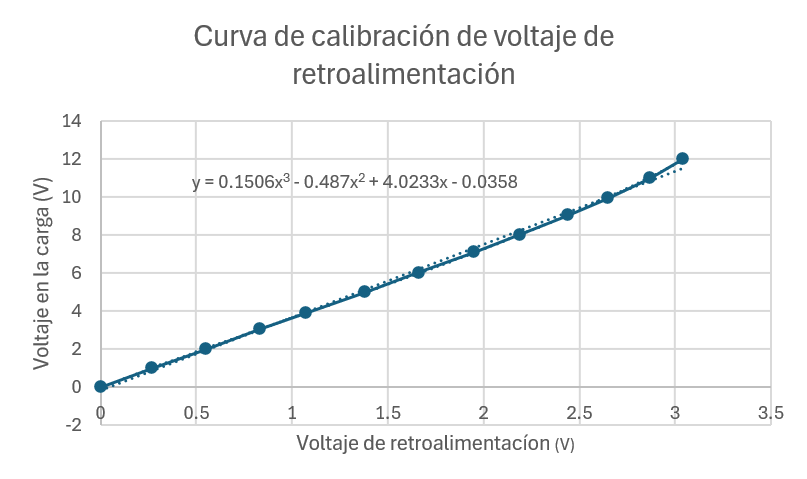
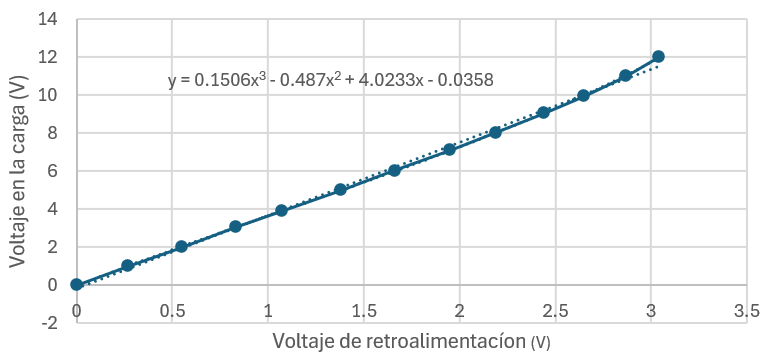
Modificar figura de curva de calibración

Changed region(s): [[0.0, 0.0305, 0.9909, 0.9751], [0.2102, 0.3047, 0.2702, 0.3352], [0.9308, 0.3047, 0.9608, 0.3352]]

diff --git a/Informe/desarrollo.tex b/Informe/desarrollo.tex
@@ -384,7 +384,7 @@ tensión de 0 V a 3,3 V. Para ello se realizó una tabla con valores de entrada 
 
 \begin{figure}[H]
     \centering
-    \includegraphics[height=7cm]{curva_calibracion.png}
+    \includegraphics[height=5cm]{curva_calibracion.png}
     \vspace{-0.25cm}
     \caption{Curva de calibración de voltaje de retroalimentación.}
     \label{fig:calibracion}
